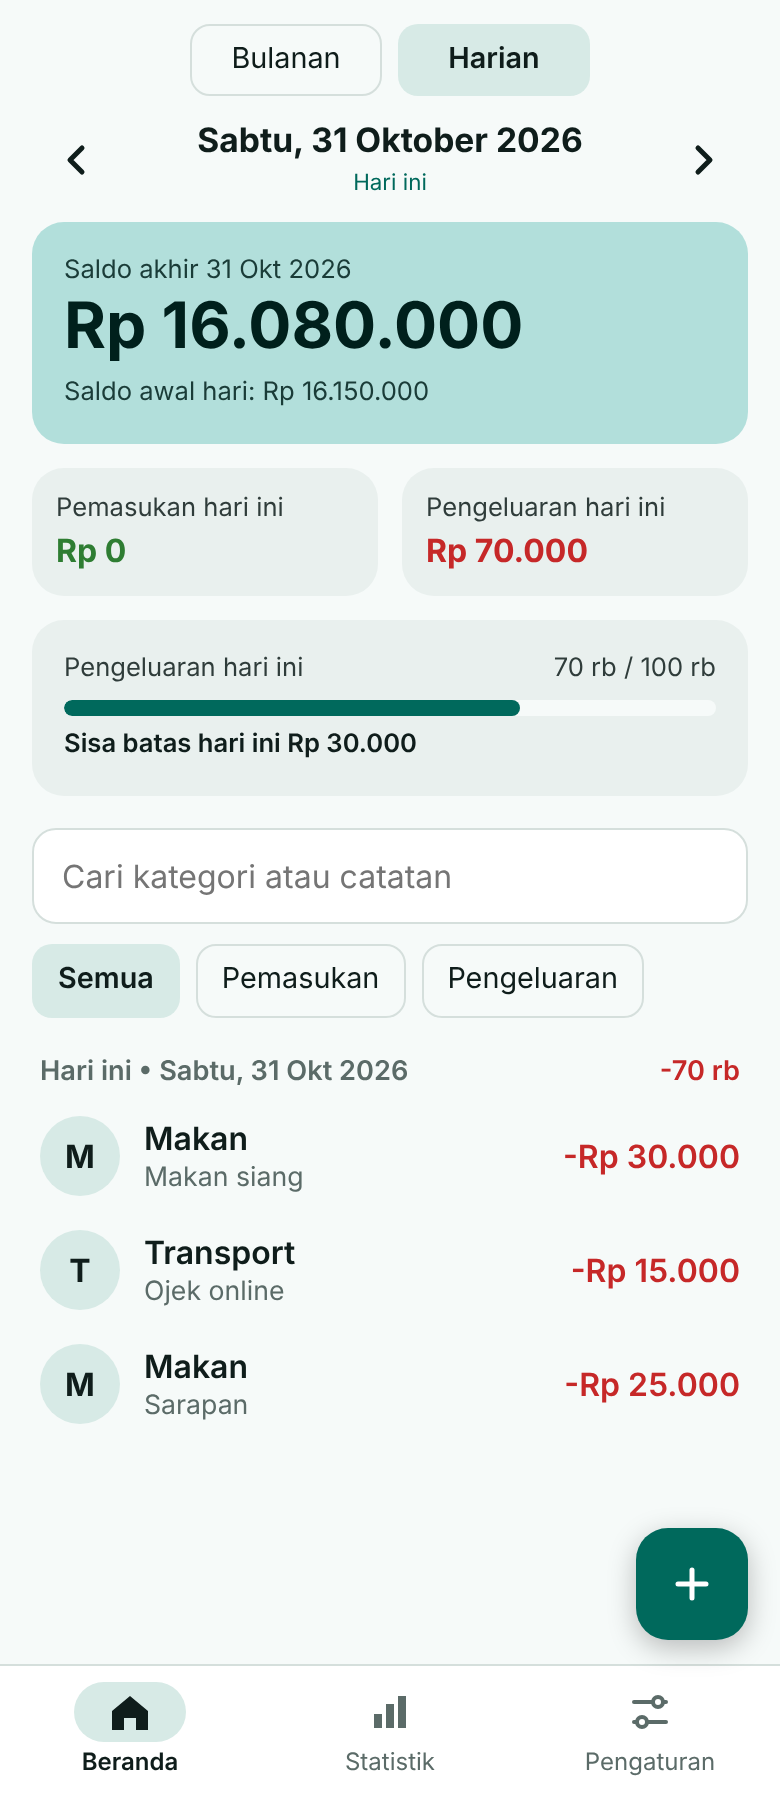
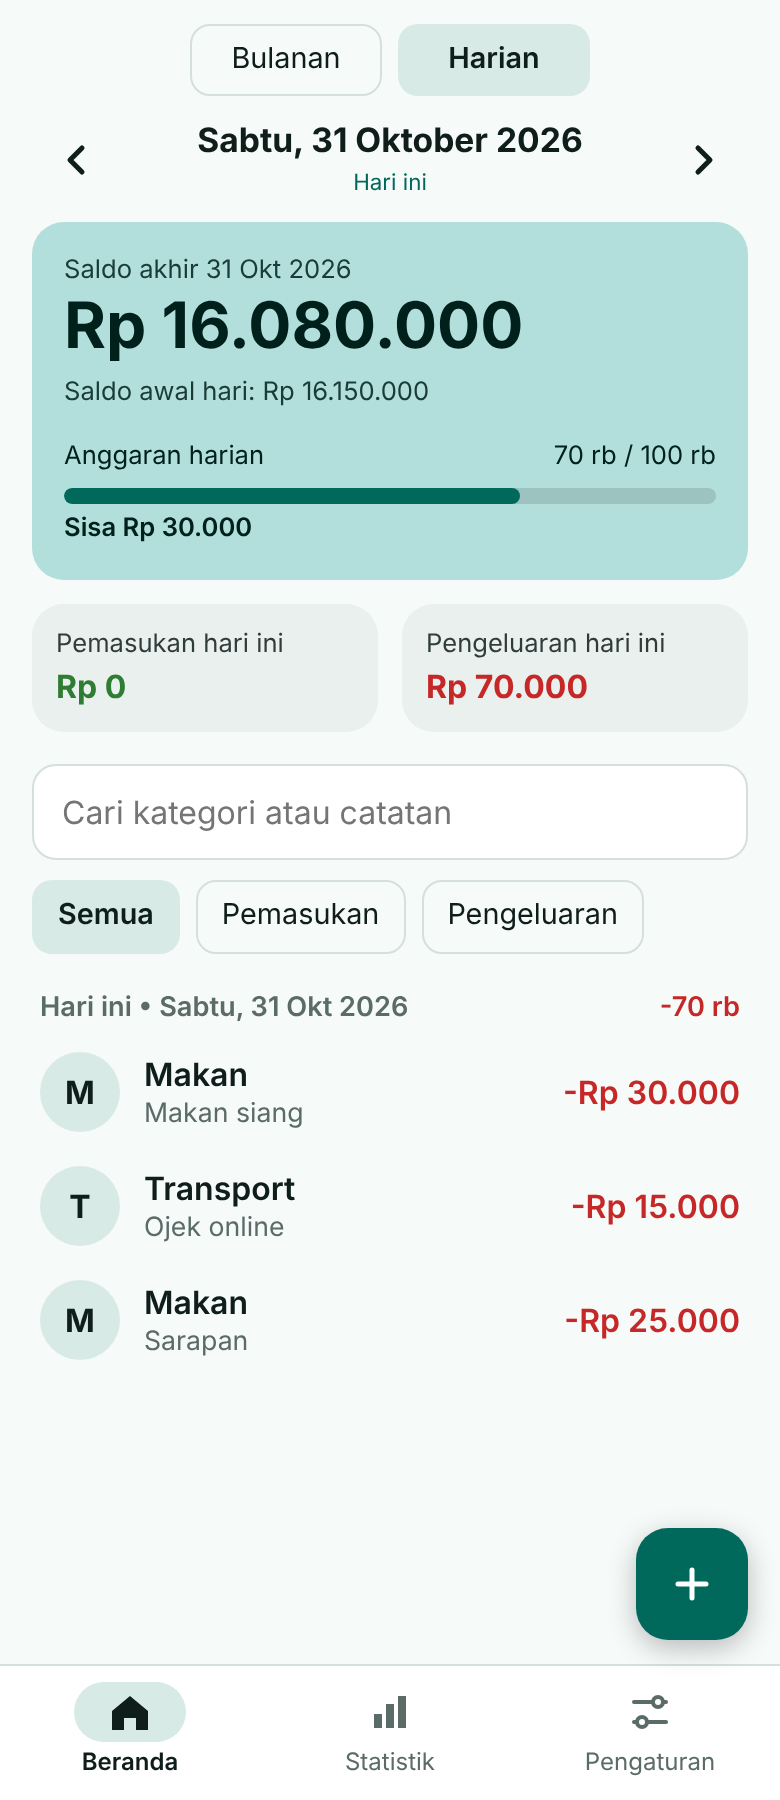
Tampilan harian: progress anggaran harian di kartu saldo
Claude-Session: https://claude.ai/code/session_01PoaaqTZ6TSVxPmi1eVRVKY

Changed region(s): [[0.0308, 0.2178, 0.9846, 0.8089], [0.7385, 0.5289, 0.9538, 0.7778]]

diff --git a/app.js b/app.js
@@ -238,19 +238,28 @@ function summaryHtml(opening, income, expense) {
   const closing = opening + income - expense;
   const period = day ? 'hari ini' : 'bulan ini';
   let extra = '';
-  if (!day) {
-    const budget = settings.budget || 0;
-    if (budget > 0) {
-      const ratio = expense / budget;
-      const cls = ratio >= 1 ? 'over' : ratio >= 0.8 ? 'warn' : '';
-      extra =
-        '<div class="budget">' +
-        '<div class="row-between"><span>Anggaran pengeluaran</span><span>' + fmtCompact(expense) + ' / ' + fmtCompact(budget) + '</span></div>' +
-        '<div class="progress"><div class="' + cls + '" style="width:' + Math.min(100, Math.max(0, ratio * 100)) + '%"></div></div>' +
-        '<div class="small" style="margin-top:4px;font-weight:600">' +
-        (expense <= budget ? 'Sisa ' + fmtRp(budget - expense) : 'Melebihi anggaran ' + fmtRp(expense - budget)) +
-        '</div></div>';
+  // Bulanan: anggaran bulanan. Harian: batas harian; jika belum diisi, turunan dari anggaran bulanan.
+  let cap = 0, capTitle = 'Anggaran pengeluaran', capNote = '';
+  if (day) {
+    capTitle = 'Anggaran harian';
+    if (settings.dailyLimit > 0) cap = settings.dailyLimit;
+    else if (settings.budget > 0) {
+      cap = Math.floor(settings.budget / daysInMonth(monthIndexOf(ui.day)));
+      capNote = ' (dari anggaran bulanan)';
     }
+  } else {
+    cap = settings.budget || 0;
+  }
+  if (cap > 0) {
+    const ratio = expense / cap;
+    const cls = ratio >= 1 ? 'over' : ratio >= 0.8 ? 'warn' : '';
+    extra =
+      '<div class="budget">' +
+      '<div class="row-between"><span>' + capTitle + capNote + '</span><span>' + fmtCompact(expense) + ' / ' + fmtCompact(cap) + '</span></div>' +
+      '<div class="progress"><div class="' + cls + '" style="width:' + Math.min(100, Math.max(0, ratio * 100)) + '%"></div></div>' +
+      '<div class="small" style="margin-top:4px;font-weight:600">' +
+      (expense <= cap ? 'Sisa ' + fmtRp(cap - expense) : 'Melebihi anggaran ' + fmtRp(expense - cap)) +
+      '</div></div>';
   }
   const title = day ? 'Saldo akhir ' + new Date(ui.day).toLocaleDateString('id-ID', { day: 'numeric', month: 'short', year: 'numeric' })
                     : 'Saldo akhir ' + monthLabel(ui.month);
@@ -1261,8 +1270,9 @@ function dayExpense(key, excludeId) {
 // Kartu batas harian di Beranda: tampilan harian = hari yang dipilih; bulanan = hanya bulan berjalan
 function dailyCard() {
   const lim = settings.dailyLimit || 0;
-  const dayView = ui.view === 'day';
-  if (!lim || (!dayView && ui.month !== currentMonthIndex())) return '';
+  if (ui.view === 'day') return '';
+  const dayView = false;
+  if (!lim || ui.month !== currentMonthIndex()) return '';
   const key = dayView ? dayKey(ui.day) : dayKey(Date.now());
   const isToday = key === dayKey(Date.now());
   const when = isToday ? 'hari ini' : 'tanggal ' + new Date(dayView ? ui.day : Date.now()).toLocaleDateString('id-ID', { day: 'numeric', month: 'short' });

diff --git a/sw.js b/sw.js
@@ -1,7 +1,7 @@
 // Service worker: aplikasi bisa dibuka offline.
 // Strategi: ambil versi terbaru dari jaringan (maks. 4 detik); jika offline atau lambat,
 // pakai salinan di cache. Dengan begitu pembaruan langsung terlihat saat online.
-const CACHE = 'keuanganku-v6';
+const CACHE = 'keuanganku-v7';
 const ASSETS = [
   './',
   'index.html',

diff --git a/README.md b/README.md
@@ -19,7 +19,7 @@ tetap berjalan tanpa internet, dan (opsional) menyinkronkan data ke semua perang
     <td align="center"><img src="docs/screenshots/mode-gelap.png" width="220" alt="Mode gelap"><br><sub>Mode gelap</sub></td>
   </tr>
   <tr>
-    <td align="center"><img src="docs/screenshots/harian.png" width="220" alt="Tampilan harian"><br><sub>Tampilan harian dengan saldo awal dan akhir</sub></td>
+    <td align="center"><img src="docs/screenshots/harian.png" width="220" alt="Tampilan harian"><br><sub>Tampilan harian: saldo awal/akhir dan progress anggaran harian</sub></td>
     <td align="center"><img src="docs/screenshots/kategori-kustom.png" width="220" alt="Kategori kustom"><br><sub>Kategori kustom</sub></td>
   </tr>
 </table>
@@ -29,7 +29,7 @@ Tangkapan layar memakai data contoh.
 ## Fitur
 
 - **Transaksi:** tambah, ubah, hapus. Nominal dengan pemisah ribuan, kategori, tanggal, dan catatan.
-- **Beranda:** pilih tampilan **Bulanan** atau **Harian**, pindah antar bulan atau antar hari, pencarian, filter pemasukan/pengeluaran, riwayat dikelompokkan per hari. Pilihan tampilan diingat.
+- **Beranda:** pilih tampilan **Bulanan** atau **Harian**, pindah antar bulan atau antar hari, pencarian, filter pemasukan/pengeluaran, riwayat dikelompokkan per hari. Tampilan harian menampilkan progress anggaran harian (dari batas harian, atau otomatis dari anggaran bulanan bila batas harian belum diisi). Pilihan tampilan diingat.
 - **Saldo berlanjut (tidak reset tiap bulan):** saldo akhir sebuah bulan (atau hari) otomatis menjadi saldo awal periode berikutnya. Isi **Saldo awal** di Pengaturan untuk uang yang sudah Anda punya sebelum mulai mencatat. Transaksi lama tidak diubah, hanya cara menghitung saldonya.
 - **Anggaran bulanan** dengan progress bar yang berubah warna saat mendekati batas.
 - **Batas pengeluaran harian:** kartu "hari ini", petunjuk sisa batas saat mengisi transaksi, peringatan saat melewati batas, dan penanda hari yang melewati batas. Ada saran batas dari anggaran bulanan.
